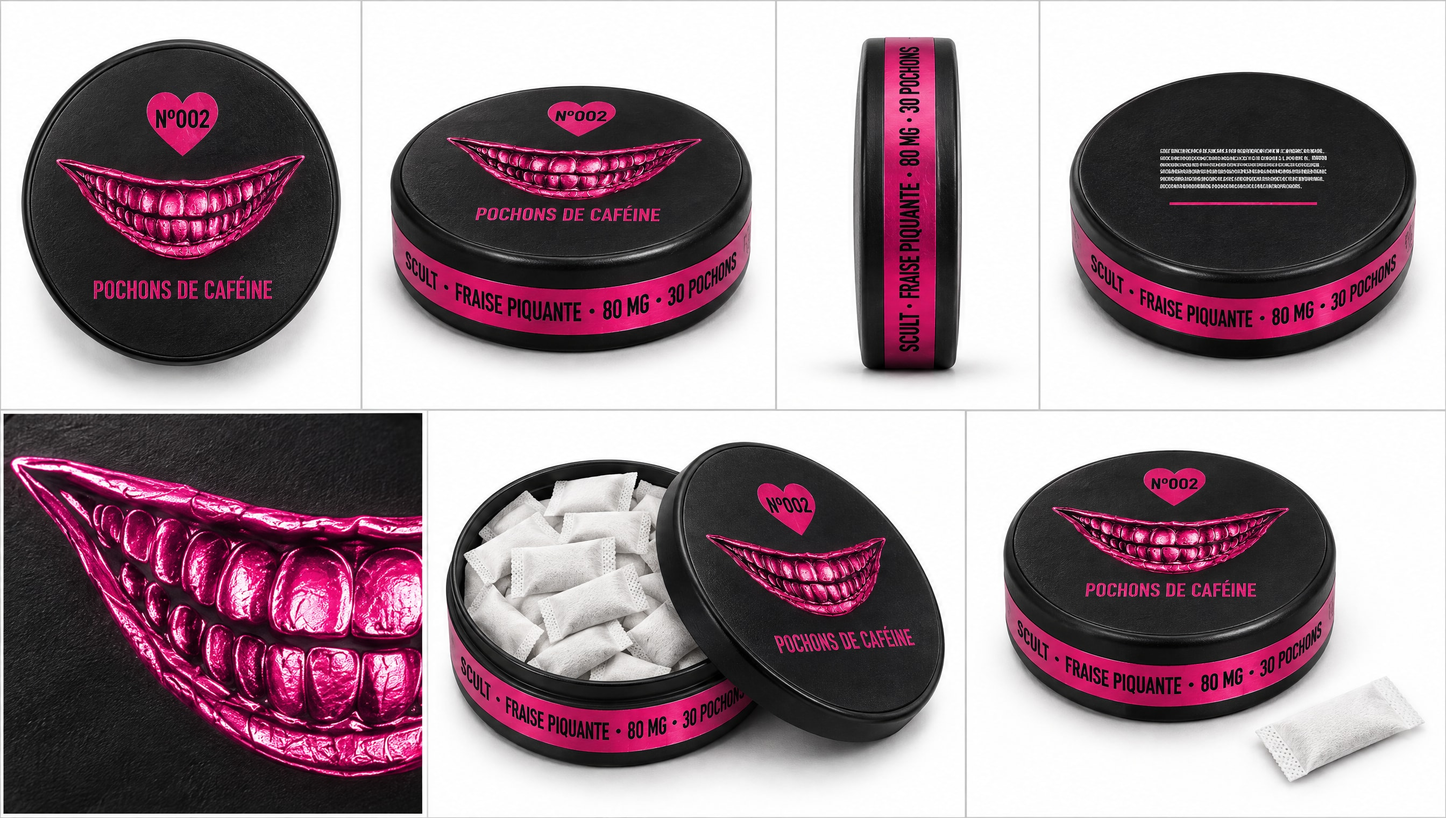
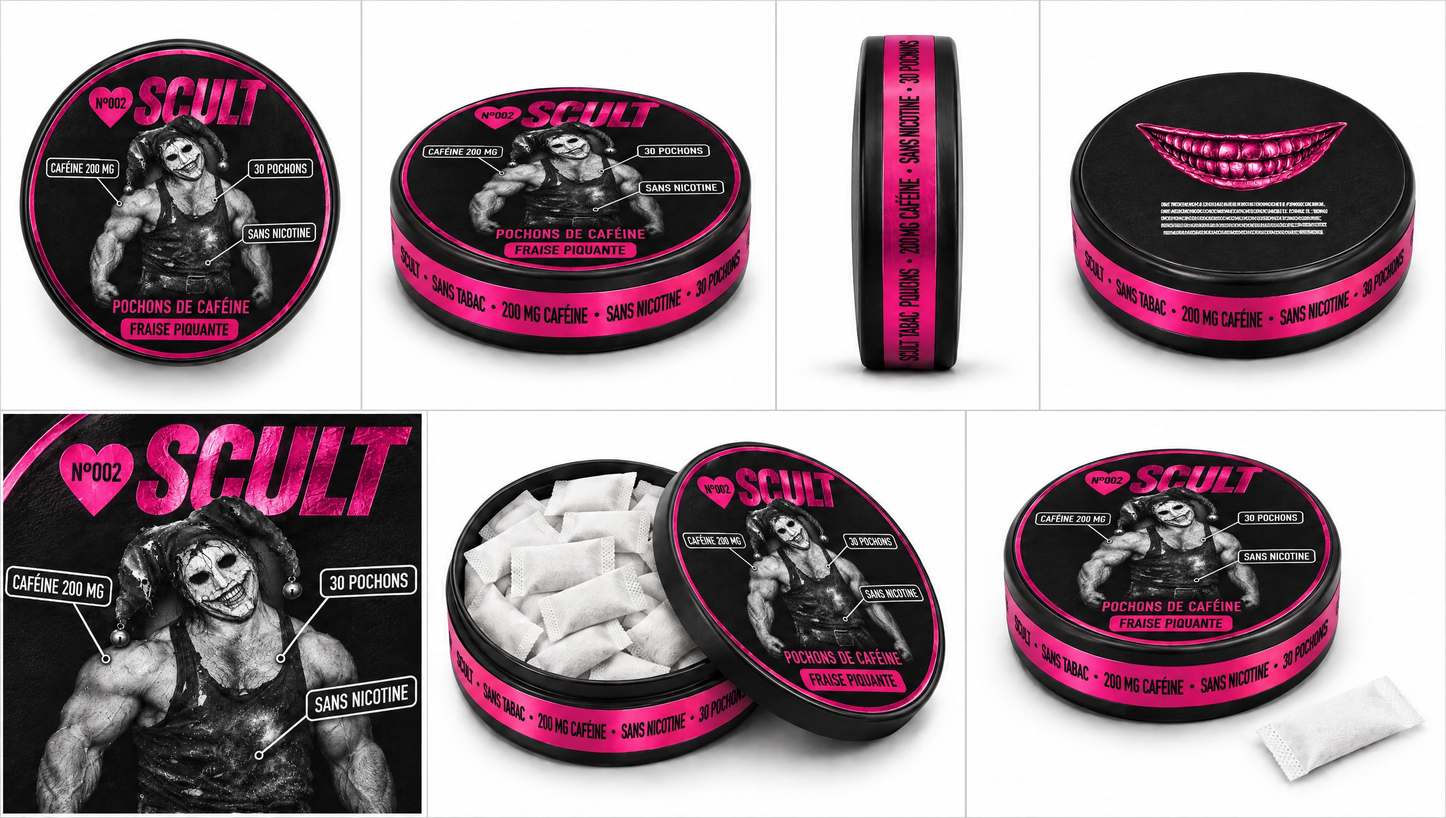
docs(pochons): feuille de référence alignée sur la catégorie, 200 mg par pochon
- Couvercle illustré avec le bouffon, étiquettes de dose et de quantité,
  goût, « sans nicotine », « sans tabac » ; le sourire chromé sous la boîte.
- Textes de la slide passés à 200 mg.

diff --git a/src/lib/content/site.ts b/src/lib/content/site.ts
@@ -61,15 +61,16 @@ export const HERO = {
 
 /**
  * La deuxième slide du hero : l'annonce du prochain produit, les pochons de
- * caféine. Fournis le 2026-11-25 : 80 mg de caféine par pochon, 30 pochons par
- * boîte, goût fraise piquante. ⚠ Toujours manquants, donc pas affichés : le
+ * caféine. Fournis le 2026-11-25 : 200 mg de caféine par pochon (d'abord 80,
+ * puis aligné sur la concurrence), 30 pochons par boîte, goût fraise piquante,
+ * sans nicotine ni tabac. ⚠ Toujours manquants, donc pas affichés : le
  * nom du produit, le prix, la date de sortie (ASSUMPTIONS.md). Le bouton ouvre
  * un e-mail ; il pointera vers la fiche quand le produit sera au catalogue.
  */
 export const HERO_POCHES = {
   badge: "Nouveau · bientôt",
   title: { main: "La caféine", accent: "en poche." },
-  text: "30 pochons de caféine, à glisser contre la gencive. 80 mg par pochon, goût fraise piquante. Sans poudre, sans shaker.",
+  text: "30 pochons de caféine, à glisser contre la gencive. 200 mg par pochon, goût fraise piquante. Sans nicotine, sans tabac.",
   cta: { label: "Me prévenir", href: "mailto:hello@scult.eu?subject=Pochons%20de%20caf%C3%A9ine%20%3A%20pr%C3%A9venez-moi" },
   alt: "Le bouffon tend vers l'objectif une petite boîte ronde noire frappée du sourire rose ; de l'autre main, il montre un pochon blanc tenu entre deux doigts",
 };

diff --git a/ASSUMPTIONS.md b/ASSUMPTIONS.md
@@ -36,7 +36,7 @@ Cette section remplace, là où elles se contredisent, les hypothèses [04], [14
 
 **Slider du hero (ajouté le 2026-11-25)** (`Hero.tsx`, `HeroSlider.tsx`)
 - [52] **Le hero de l'accueil est un slider de deux visuels** : le bouffon (le hero dark, avec le h1 ; c'est toujours lui que l'intro révèle et l'image LCP), puis l'offre « −30 % sur le deuxième pot ». Il passe seul à la slide suivante toutes les 6,5 s — jamais pendant l'intro, au survol, ni en mouvement réduit — et s'arrête au premier geste. Sans JavaScript, la première slide reste.
-- [53] **La deuxième slide du hero annonce un nouveau produit : les pochons de caféine** (demandé le 2026-11-25, après le retrait de la slide de l'offre « −30 % » — trois créas générées puis une version en typographie et pots 3D, toutes écartées). Fournis le même jour : **80 mg de caféine par pochon, 30 pochons par boîte, goût fraise piquante**. Toujours manquants, donc pas affichés : le nom du produit, le prix, la date. **Feuille de référence du produit** : `docs/refonte-bouffon/sources/planche-pochons.jpg`, sept vues de la boîte générées sur Higgsfield (boîte ronde noire, sourire chromé et « N°002 » sur le couvercle, bande rose « SCULT · Fraise piquante · 80 mg · 30 pochons ») — une proposition d'emballage, à valider ; « N°002 » et « Pochons de caféine » sur la boîte sont de moi. Le visuel de la slide en ligne montre encore une première boîte, sans ces mentions : il sera refait sur fond blanc à partir de la feuille, une fois validée. Textes de la slide provisoires (`HERO_POCHES`, `site.ts`). Le bouton « Me prévenir » ouvre un e-mail vers hello@scult.eu, faute de liste d'attente et de fiche produit. La mention « Complément alimentaire » sous le slider vaut pour le pré-workout : le statut réglementaire des pochons est à vérifier avant le lancement.
+- [53] **La deuxième slide du hero annonce un nouveau produit : les pochons de caféine** (demandé le 2026-11-25, après le retrait de la slide de l'offre « −30 % » — trois créas générées puis une version en typographie et pots 3D, toutes écartées). Fournis le même jour : **200 mg de caféine par pochon** (d'abord 80 mg, puis « on s'aligne » sur un concurrent à 200 mg), **30 pochons par boîte, goût fraise piquante**, sans nicotine ni tabac. Toujours manquants, donc pas affichés : le nom du produit, le prix, la date. **Feuille de référence du produit** : `docs/refonte-bouffon/sources/planche-pochons.jpg`, sept vues de la boîte générées sur Higgsfield. Deuxième version, alignée sur les codes de la catégorie (une capture d'un concurrent a servi de modèle de structure, pas de dessin) : couvercle entièrement illustré avec le bouffon, étiquettes « Caféine 200 mg », « 30 pochons », « Sans nicotine », goût en bas, bande rose « SCULT · Sans tabac · 200 mg caféine · Sans nicotine · 30 pochons », le sourire chromé sous la boîte. C'est une proposition d'emballage, à valider ; « N°002 » et « Pochons de caféine » sont de moi ; sur la vue de tranche, le début de la bande est mal écrit par la génération. Les mentions d'effet du concurrent (« alertness », « stamina »…) n'ont pas été reprises : ce sont des allégations. **200 mg par pochon** est la dose unique que l'EFSA juge sans risque pour un adulte en bonne santé (400 mg par jour au total, soit deux pochons) : l'étiquetage réel devra porter l'avertissement caféine et une limite d'usage, à faire valider. Le visuel de la slide en ligne montre encore une première boîte : il sera refait sur fond blanc à partir de la feuille, une fois validée. Textes de la slide provisoires (`HERO_POCHES`, `site.ts`). Le bouton « Me prévenir » ouvre un e-mail vers hello@scult.eu, faute de liste d'attente et de fiche produit. La mention « Complément alimentaire » sous le slider vaut pour le pré-workout : le statut réglementaire des pochons est à vérifier avant le lancement.
 - [54] **Hero mobile refait** : tout tient dans un écran (titre, affiche, bouton), l'affiche bord à bord, sans marge. **L'affiche mobile du bouffon (`hero-dark-mobile`) a été refaite à la demande** (« rajoute de la profondeur au produit »), le 2026-11-25 sur Higgsfield, à partir de l'affiche fournie : même personnage, même sous-sol, le pot poussé vers l'objectif à deux mains, et un cadrage fait pour le téléphone (du noir en haut pour le titre, en bas pour le bouton). C'est, avec [53], l'autre exception à [39] ; l'affiche d'origine reste à son lien (noté dans `scripts/bouffon-images.mjs`). L'image d'ordinateur (`hero-dark-desktop`) a été refaite de la même façon ensuite, à la demande : pot à deux mains poussé vers l'objectif, bouffon à droite, moitié gauche dans le noir pour le texte ; l'image de partage (Open Graph) en est un recadrage. Le sur-titre « N°001 — PRE-WORKOUT » n'est plus affiché sur mobile ; la ligne de dosages et la mention légale sont sous le slider.
 
 **Fiche produit (2026-11-25)**
